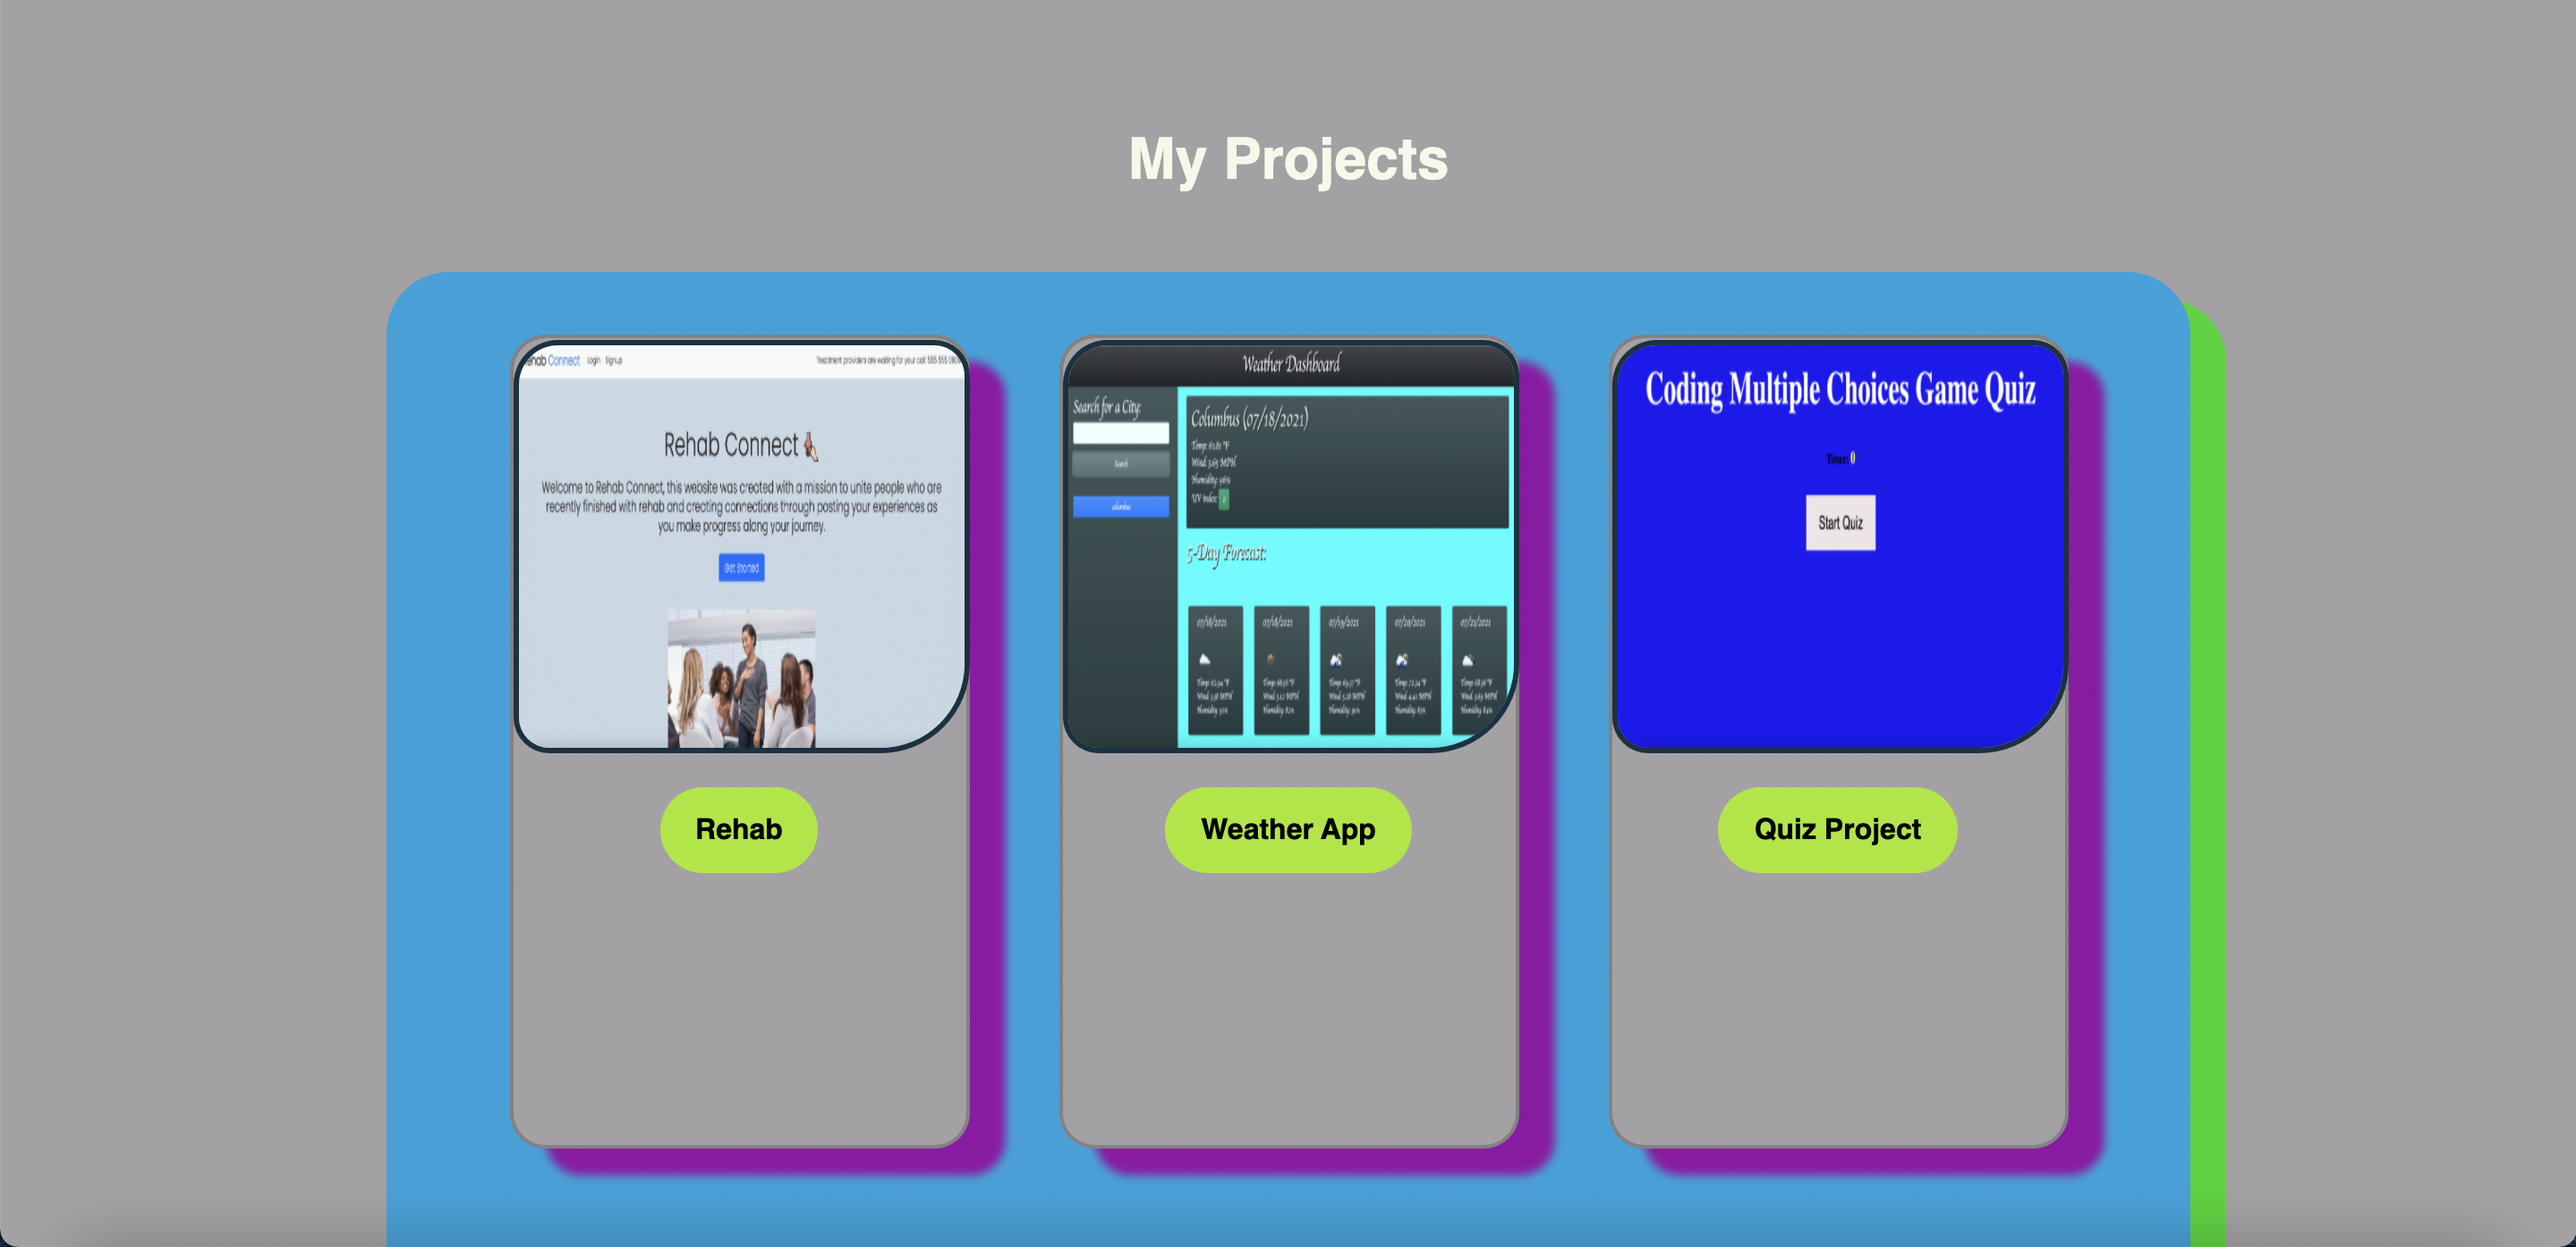
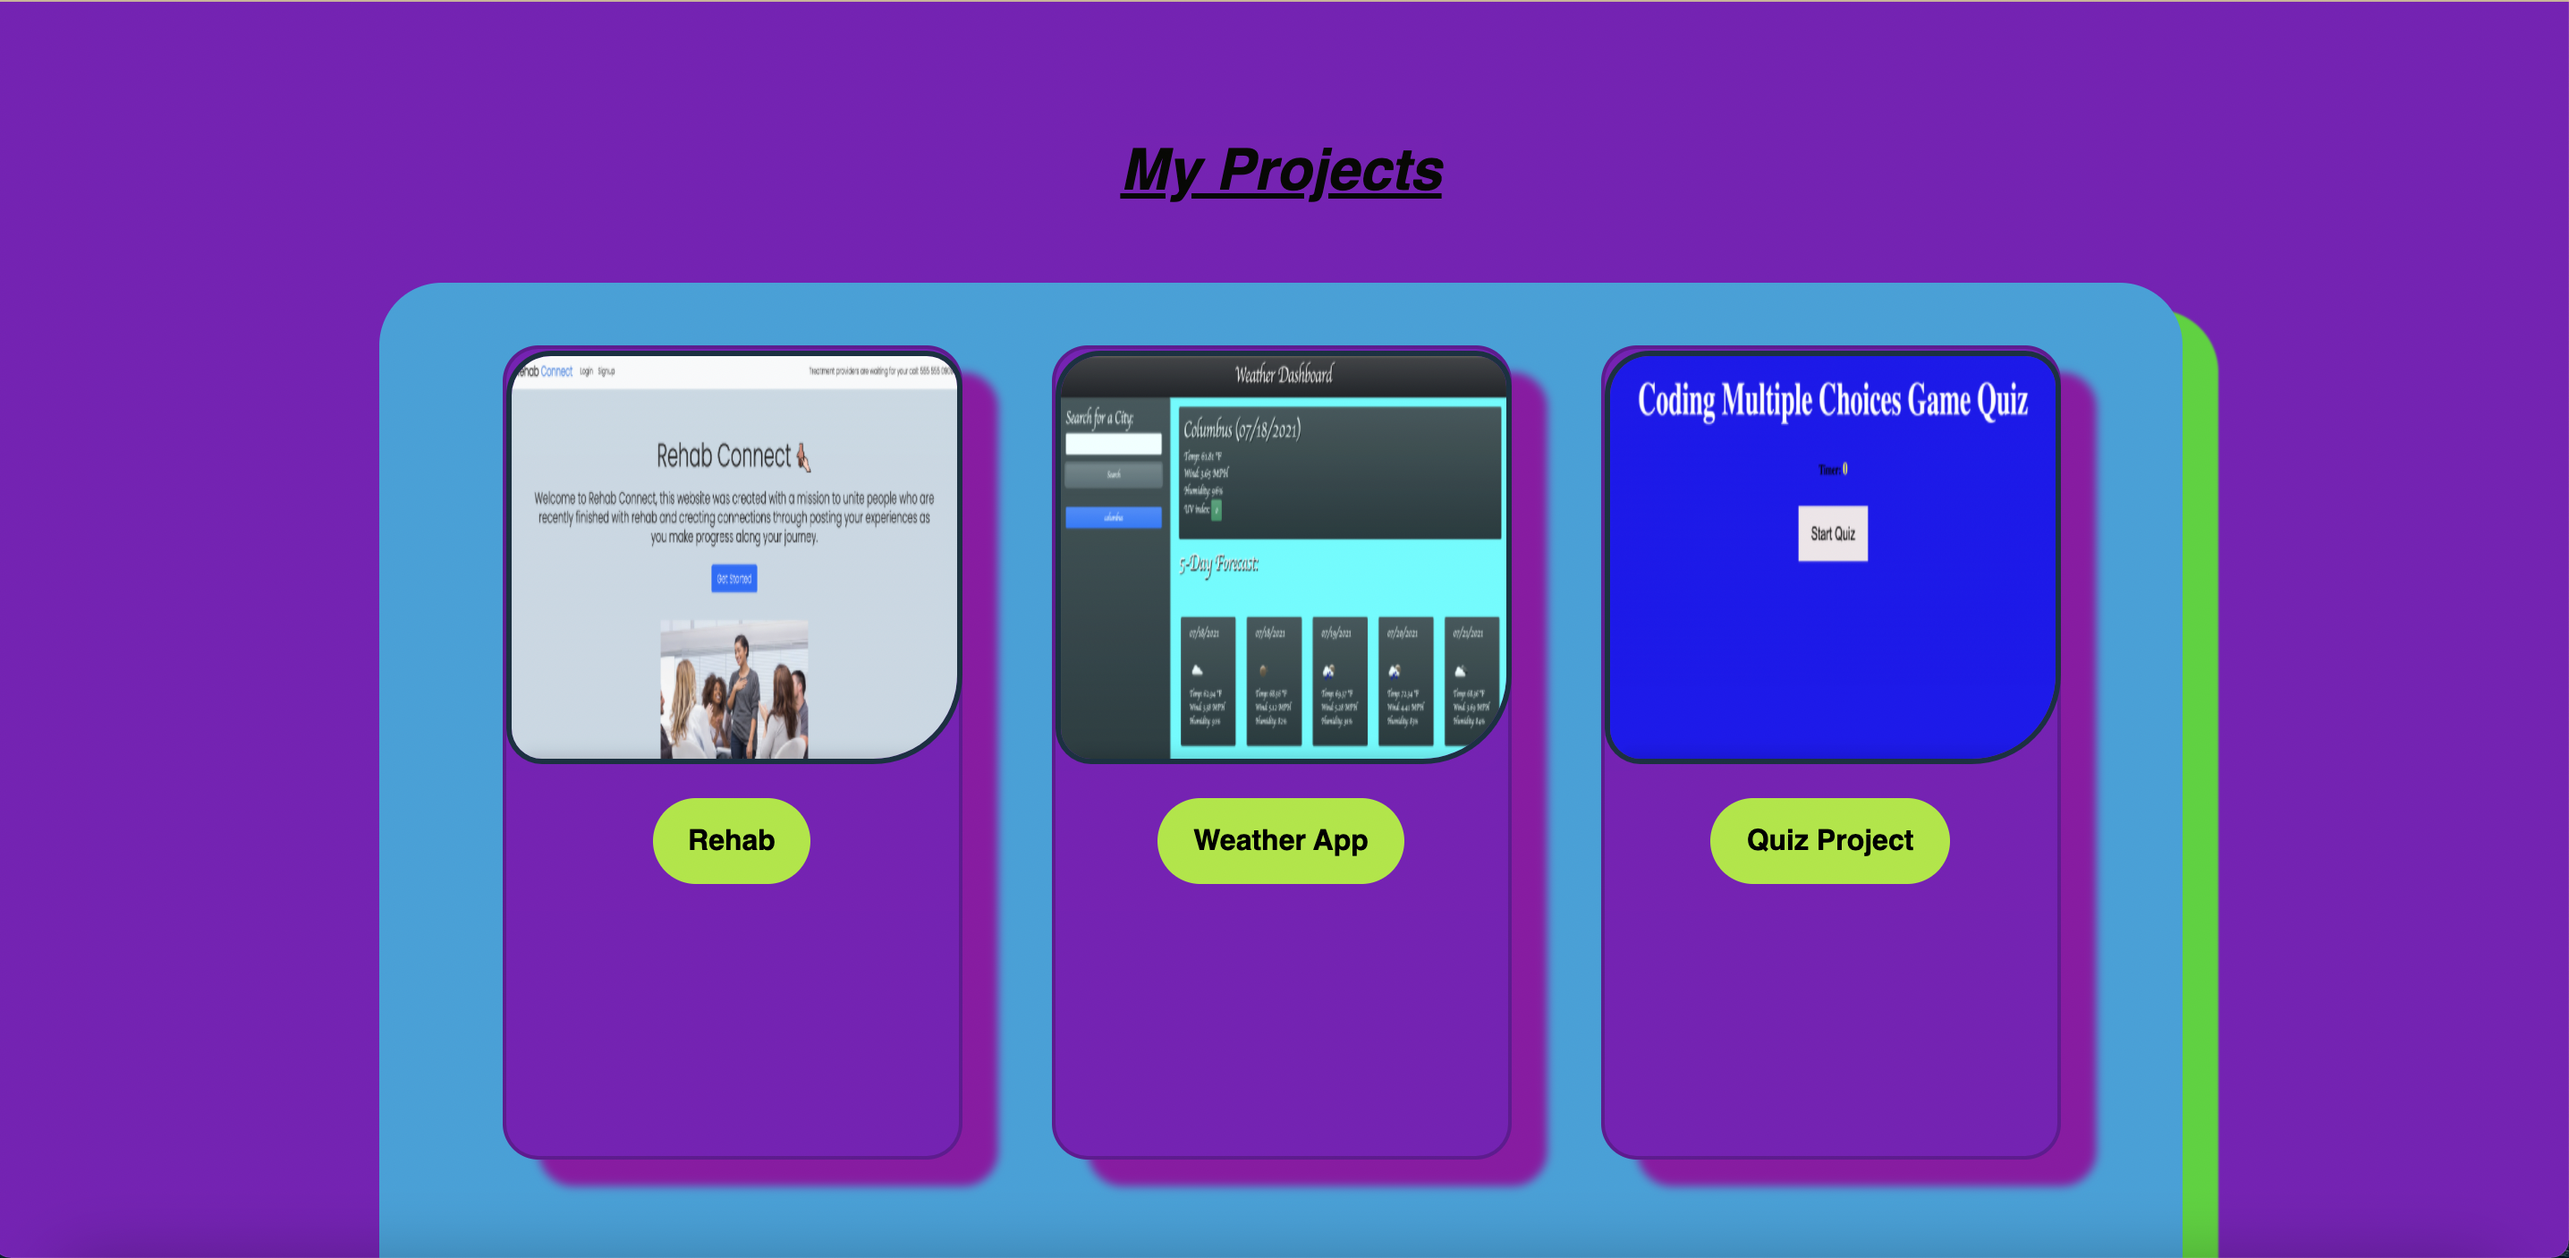
updated files

diff --git a/src/Contactpage.js b/src/Contactpage.js
@@ -7,7 +7,11 @@ const Contactpage = () => {
         <div className="contactpage" id="contactpage">
             
             <div className="formsection">
-                <h2>Questions or Feedback</h2>
+                <h2><i><u>
+                    Questions or Feedback
+                    </u>
+                    </i>
+                </h2>
                 <form className="form">
                     <label />Name:
                     <input type="text" required />
@@ -20,23 +24,15 @@ const Contactpage = () => {
                 </form>
             </div>
             <div className="contactsection">
-                <h2>Contact Me</h2>
-                <p>Please reach out to me if you have any questions</p>
-                <br/>
-                <br/>
-                <div className="info">
-                 
-                    <p>Phone #: (919) 589-2797</p>
-                   
-                </div>
+
                 <br/>
                 <br/>
                 <div className="sociallinks">
                      <a href="mailto:toufikaminew@gmail.com">Email</a>
                      <a href="https://github.com/lbladma">GitHub</a>
                     <a href="https://www.linkedin.com/in/taoufika/">LinkedIn</a>
-                    <a href="">Instagram</a>
-                    <a href="">Snapchat</a>
+                    <a href="blank">Instagram</a>
+                    <a href="blank">Snapchat</a>
                    
                 </div>
             </div>
@@ -47,3 +43,4 @@ const Contactpage = () => {
 }
 
 export default Contactpage;
+

diff --git a/src/Aboutmepage.js b/src/Aboutmepage.js
@@ -4,12 +4,19 @@ const AboutMePage = () => {
         <div className="aboutmepage">
             {/* This is info section  */}
             <div className="infosection">
-                <h1>Hi there...</h1>
-                    My name is Taoufik Ammi
+                <h1><u>
+                    About me. </u></h1>
+                    
+                    <br>
+                    </br>
+                    <hr>
+                    </hr>
+                    My name is Taoufik 
                 <br/><br/>
-                <p> I am an Aspiring CyberSecurity and Full Stack Web Dev. professional with 
+                <p> <marquee width='200%'>I am an Aspiring CyberSecurity and Full Stack Web Dev. professional with 
                     Computer Science BA degree and 10+ years experience working in IT 
-                    as a senior computer engineer/system admin.</p>
+                    as a senior computer engineer/system admin.</marquee>
+                    </p>
             </div>
             {/* This is the image section */}
             <div className="imagesection">

diff --git a/src/Skillspage.js b/src/Skillspage.js
@@ -32,11 +32,15 @@ const Skillspage = () => {
 
     return (
         <div className="skillpage" id="skillpage" >
-            <h1>Tools & Technologies</h1>
+            <h1><u>
+                <i>Tools & Technologies
+                     </i>
+                </u>
+                </h1>
             <div className="skillslist">
                 {skillslist.map((skillslist) => (
                     <div className="icon">
-                        <img src={skillslist.icon} className="icons"></img>
+                        <img src={skillslist.icon} className="icons" alt=' '></img>
                         <p>{ skillslist.skill }</p>
                     </div>
                 ))}

diff --git a/src/index.css b/src/index.css
@@ -40,10 +40,11 @@ code {
 }
 
 .navbar a {
-  margin-left: 20px;
+  margin-left: 50px;
   text-decoration: none;
-  padding: 6px;
+  padding: 50px;
 }
+
 
 /* This customizes the Homepage */
 .homepage {
@@ -200,13 +201,17 @@ code {
   display: flex;
   flex-direction: row;
   justify-content: space-between;
-  
+  padding: 0px;
+  border-radius: 100px;
+  border-top: 2px
+
 }
 
+
 .sociallinks a {
-  text-decoration: none;
+  text-decoration:rgb(37, 177, 19);
   padding: 15px;
-  border-style: solid;
+  border-style:dotted;
   border-radius: 36px;
 }
 

diff --git a/src/Projectpage.js b/src/Projectpage.js
@@ -20,7 +20,8 @@ const ProjectPage = () => {
 
     return (
         <div className="projectpage" id="projectpage">
-            <h1> My Projects</h1>
+            <h1> <u><i>
+                My Projects</i></u></h1>
             <div className="projectcardlist">
 
                 {projectList.map((projectList) => (
